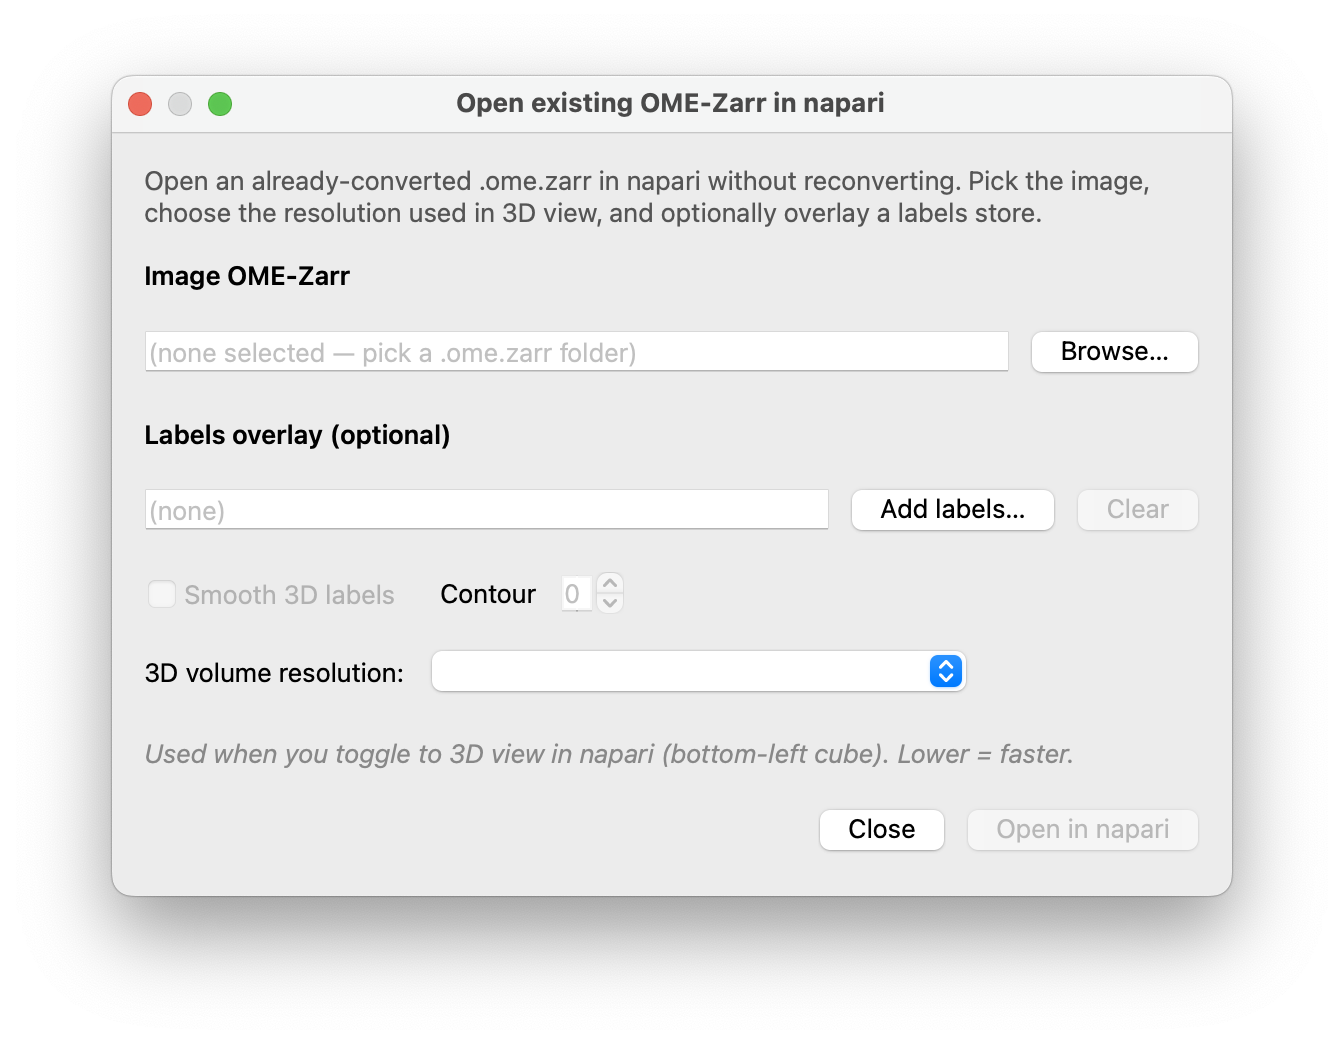
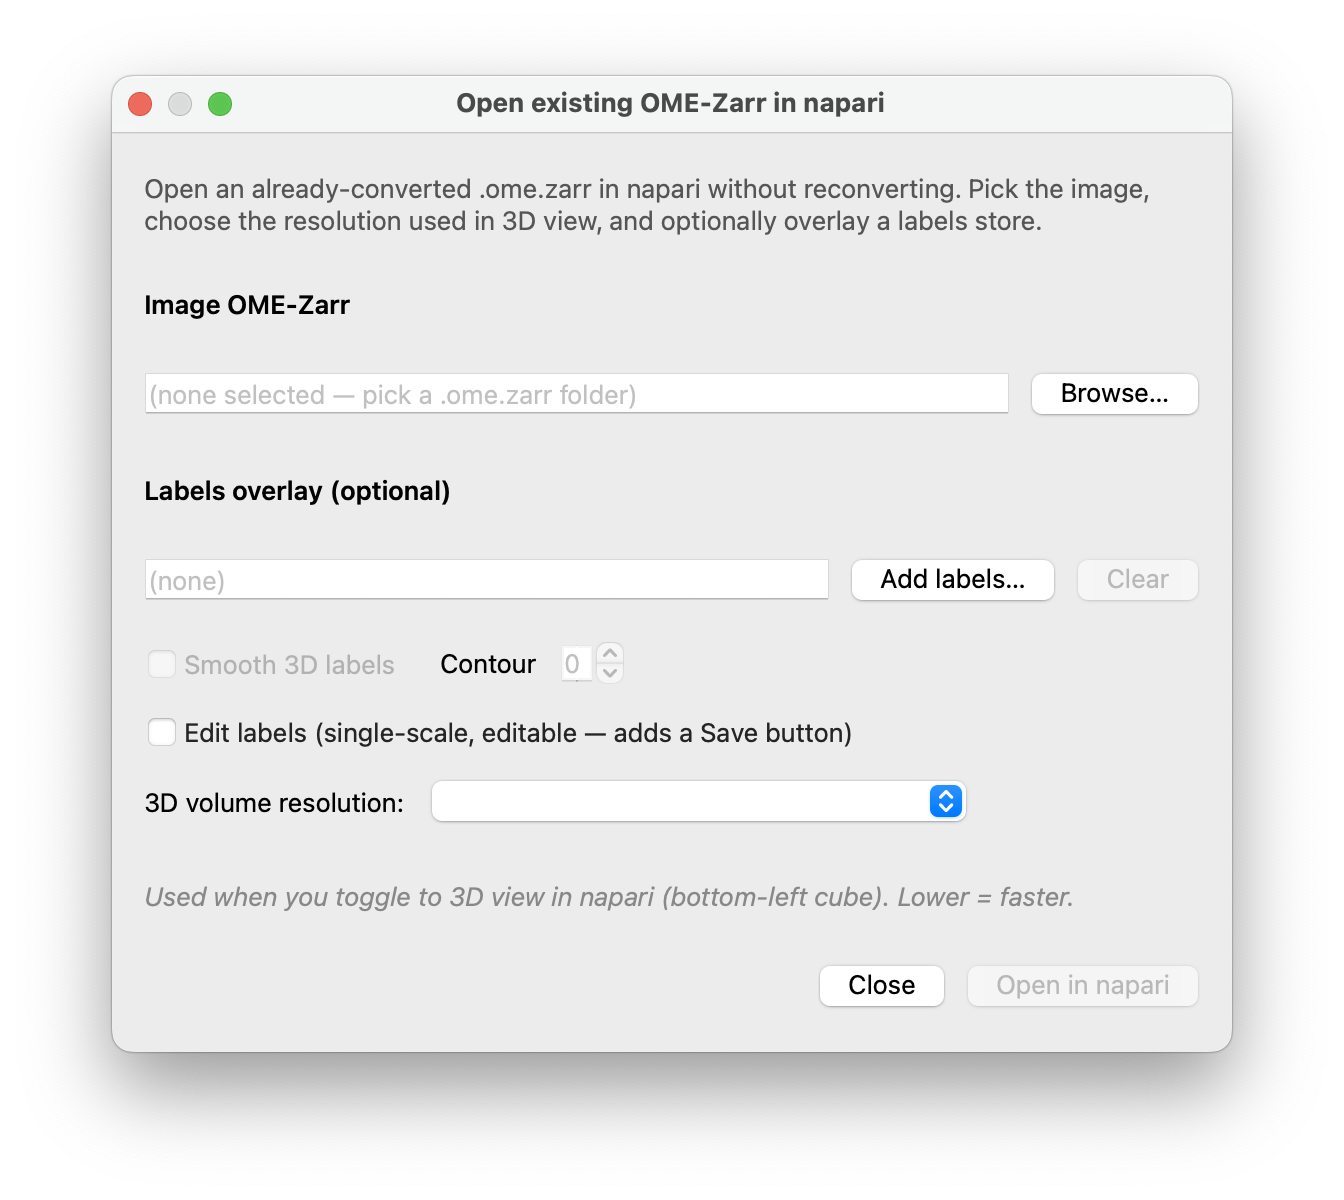
Add editable labels round-trip in napari (v1.2.0)

diff --git a/README.md b/README.md
@@ -68,6 +68,13 @@ Already have a converted `.ome.zarr`? You can view it in napari without reconver
 3. *(Optional)* overlay a **labels / segmentation** store. If a matching `<name>_labels.ome.zarr` sits next to the image, it's filled in automatically; otherwise click **Add labels…**. You can toggle **Smooth 3D labels** and a **Contour** width.
 4. Click **Open in napari** — same behavior as above (2D multiscale, your chosen level in 3D).
 
+#### Editing labels (paint and save back)
+
+Tick **Edit labels** to load the labels at full resolution as an **editable** layer instead of a read-only overlay. Paint and correct segmentation directly in napari with the brush and fill tools, then click **Save labels** (a button added to napari's right-hand dock) to write the corrected labels back to the store — the multi-resolution pyramid is regenerated automatically, so the saved store stays consistent at every zoom level.
+
+- Works whether you're correcting an **existing** labels store or starting from a **blank** layer — leave the labels overlay empty to annotate from scratch, and a new `<image>_labels.ome.zarr` is created next to the image.
+- Editing loads the full-resolution labels into memory; volumes too large to fit are refused with a clear message rather than crashing.
+
 Single-channel 3D (ZYX) volumes are supported. Multichannel or time-series stores aren't supported yet — you'll get a clear message rather than a silent failure.
 
 ## System requirements
